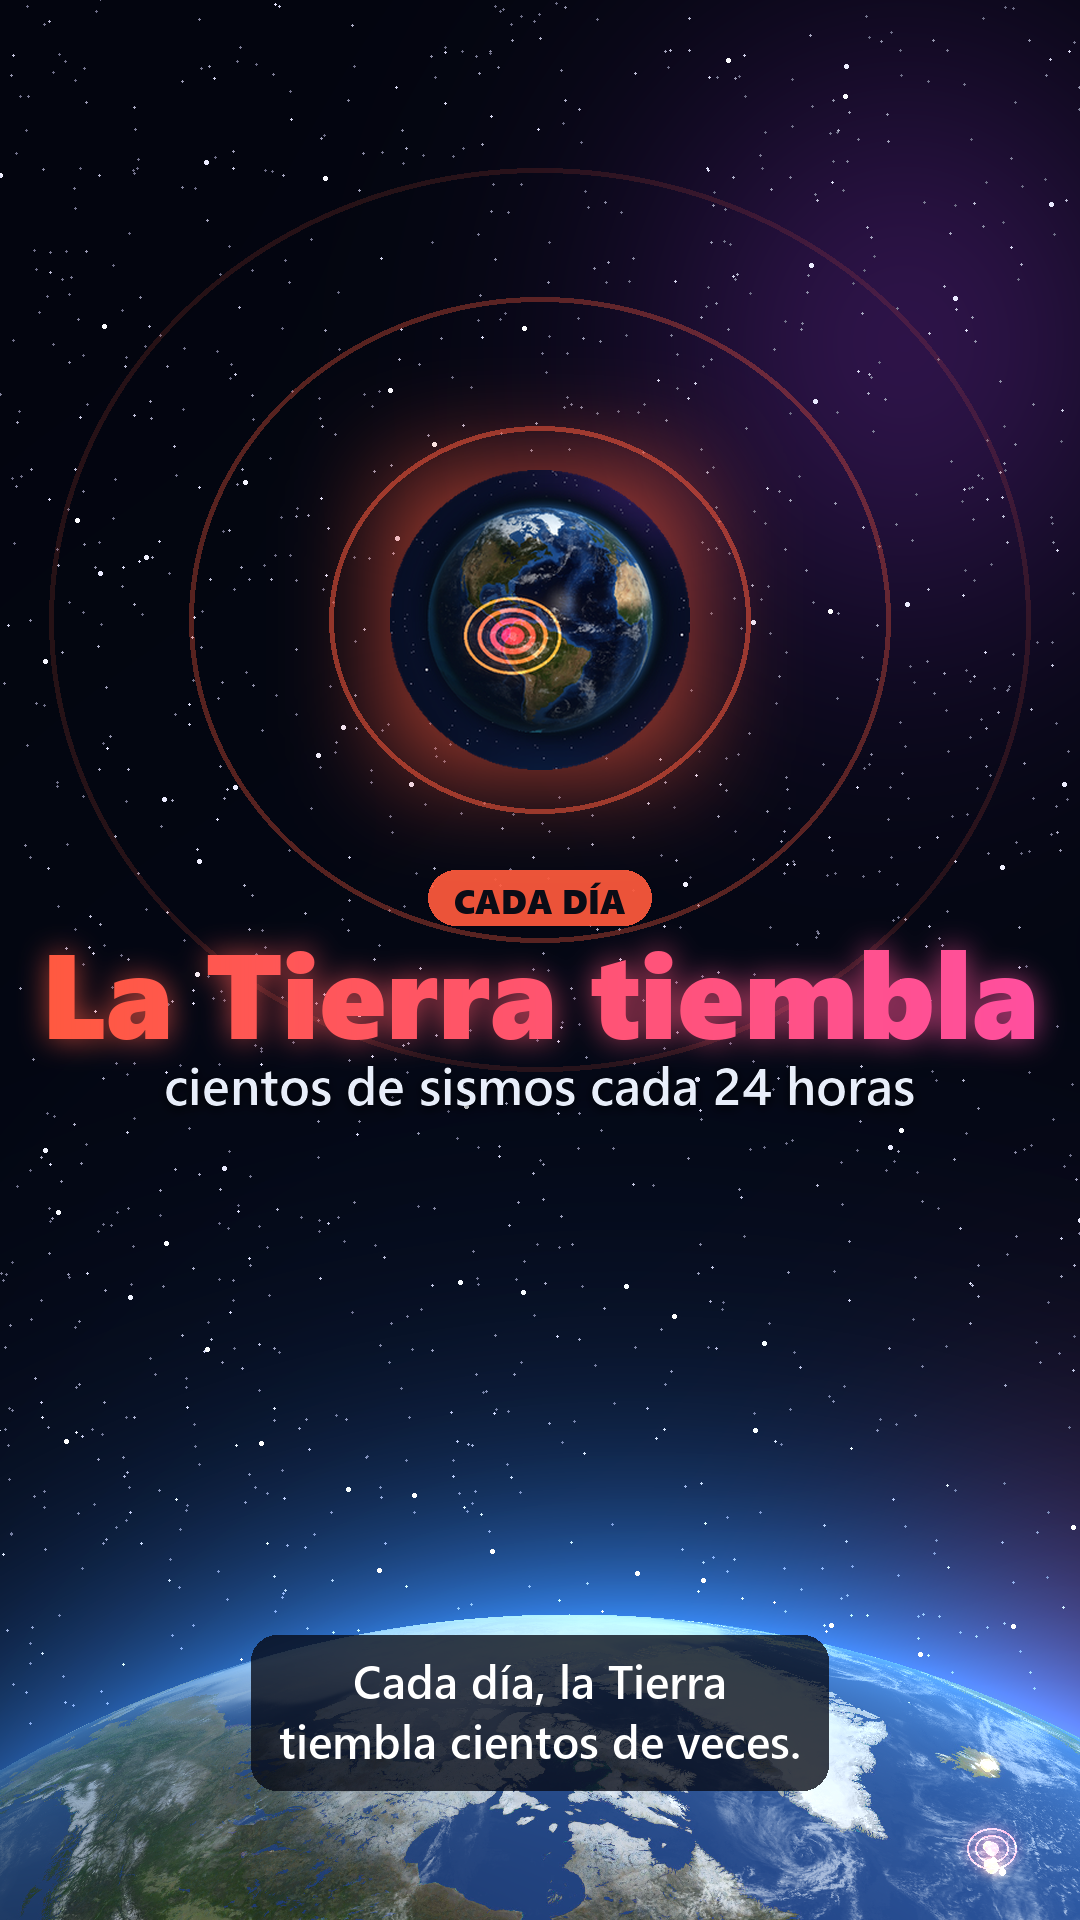
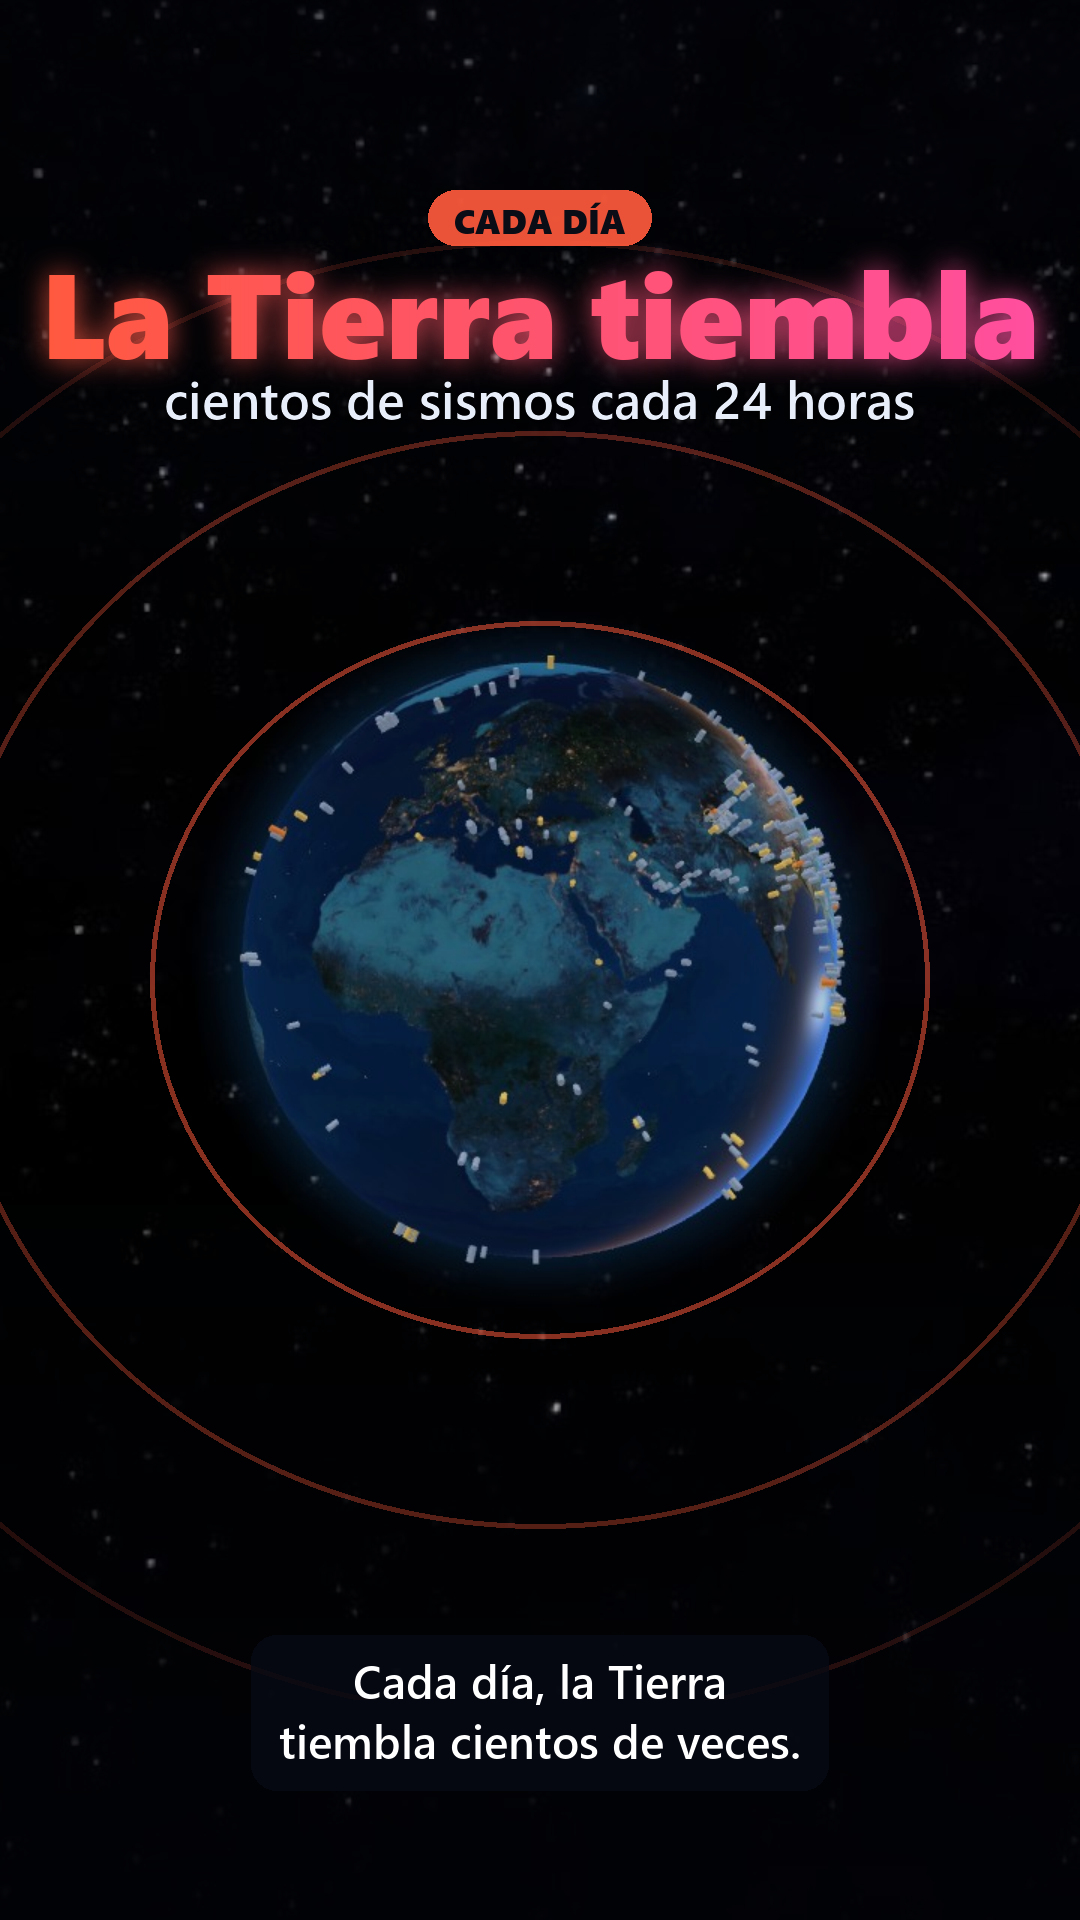
Publicidad para Facebook y video épico de Orbe Sismos
- generar_facebook.py: 2 imágenes por app (1080x1350 y 1080x1080) con el
  celular en 3D, beneficios y botón de descarga; textos en facebook-anuncios.md.
- Video de Orbe Sismos con tomas reales del globo 3D, celular inclinado,
  destellos, temblor de cámara y golpes de sonido.

diff --git a/play-store/generar_facebook.py b/play-store/generar_facebook.py
@@ -1,0 +1,220 @@
+"""Imágenes publicitarias para Facebook e Instagram: 2 por app.
+
+    python play-store/generar_facebook.py [sismos radio tv espacio clima podcasts]
+
+En play-store/<app>/publicidad/:
+  facebook-1.png   1080x1350 (4:5, la que más ocupa en el feed): frase gancho, celular en 3D y 3 beneficios
+  facebook-2.png   1080x1080 (cuadrada): dos celulares en 3D, beneficios con ✓ y botón de descarga
+Los textos para acompañar cada anuncio están en play-store/facebook-anuncios.md.
+Usa los fondos que deja play-store/videos/hacer_videos.py (cache/<app>/fondo.png) y, para Orbe Sismos,
+una toma real del globo 3D de la app (grabar_globo_sismos.js).
+"""
+import os
+import sys
+
+import numpy as np
+from PIL import Image, ImageDraw
+
+HERE = os.path.dirname(os.path.abspath(__file__))
+sys.path.insert(0, os.path.join(HERE, 'videos'))
+import hacer_videos as hv  # noqa: E402
+from guiones import APPS  # noqa: E402
+
+gg, gp = hv.gg, hv.gp
+FB, FS = gp.FONT_B, gp.FONT_S
+PINK = (255, 79, 163)
+
+ADS = {
+    'sismos': dict(
+        a=dict(h='¿Y si tiembla esta noche?', s='Recibe una alarma si hay un sismo fuerte cerca de ti', shot='capturas/telefono-1-mapa.png',
+               chips=['Alarma aunque la app esté cerrada', 'Avisa a tu familia que estás bien', 'Guías de emergencia sin internet']),
+        b=dict(h='Un sismo no avisa. ¿Estás preparado?', shots=['capturas/telefono-5-alarmas.png', 'capturas-video/video-test.png'],
+               checks=['Sismos de todo el mundo en vivo, en 3D', 'Alarma si tiembla fuerte cerca de ti', 'Test de preparación para tu familia'])),
+    'radio': dict(
+        a=dict(h='52.000 emisoras en un globo 3D', s='Gira el planeta y escucha la radio de cualquier país', shot='capturas/telefono-1-globo.png',
+               chips=['223 países en vivo', 'Alarma y temporizador para dormir', 'Toda la radio de Colombia']),
+        b=dict(h='Escucha el mundo, gratis', shots=['capturas/telefono-5-colombia.png', 'capturas/telefono-2-busqueda.png'],
+               checks=['Salsa, vallenato, rock, jazz y noticias', 'Emisoras de Colombia y Latinoamérica', 'Un planeta en 8K, de día y de noche'])),
+    'tv': dict(
+        a=dict(h='8.700 canales gratis', s='De 177 países, en tu celular y en tu televisor', shot='capturas/telefono-1-globo.png',
+               chips=['Noticias en vivo 24 horas', 'Deportes, música, cine y niños', 'Chromecast y Android TV']),
+        b=dict(h='Mira el mundo en vivo', shots=['capturas/telefono-3-deportes.png', 'capturas/telefono-6-colombia.png'],
+               checks=['Canales de 177 países', '10 categorías con colores', 'Comparte un canal por WhatsApp'])),
+    'espacio': dict(
+        a=dict(h='La Estación Espacial pasa sobre ti', s='Te avisamos 10 minutos antes para que salgas a verla', shot='capturas/telefono-3-pasos.png',
+               chips=['Más de 14.000 satélites en vivo', 'Próximos lanzamientos de cohetes', 'Astronautas en órbita ahora']),
+        b=dict(h='Mira el cielo como nunca', shots=['capturas/telefono-1-mapa.png', 'capturas/telefono-2-estacion.png'],
+               checks=['La Estación Espacial en vivo', 'Satélites del mundo en un globo 3D', 'Cuenta regresiva de cohetes'])),
+    'clima': dict(
+        a=dict(h='¿Viene lluvia? Míralo en 3D', s='Viento, lluvia y huracanes de todo el planeta', shot='capturas/telefono-1-viento.png',
+               chips=['Huracanes y tifones con su ruta', 'Alertas para tu ciudad', 'Pronóstico de 10 días']),
+        b=dict(h='El clima del mundo en tus manos', shots=['capturas/telefono-6-huracan.png', 'capturas/telefono-4-mi-clima.png'],
+               checks=['El viento del planeta en vivo', 'Lluvia de las próximas 48 horas', 'Alertas de tormentas y huracanes'])),
+    'podcasts': dict(
+        a=dict(h='Lo que el mundo está escuchando', s='Los podcasts más escuchados de 63 países, gratis', shot='capturas/telefono-1-mapa.png',
+               chips=['El top de cada país', 'Noticias, humor y crimen real', 'Android Auto y Chromecast']),
+        b=dict(h='Tu próximo podcast favorito', shots=['capturas/telefono-4-reproductor.png', 'capturas/telefono-2-explorar.png'],
+               checks=['Explora por temas y países', 'Sigue donde quedaste', 'Temporizador para dormir'])),
+}
+
+
+def background(key, w, h):
+    """Fondo épico: el globo real de la app (Sismos) o el espacio con la Tierra de la publicidad."""
+    if key == 'sismos':
+        clip = os.path.join(hv.CACHE, 'sismos', 'clips', 'llegada')
+        frames = sorted(os.listdir(clip)) if os.path.isdir(clip) else []
+        if frames:
+            im = Image.open(os.path.join(clip, frames[-12])).convert('RGB').resize((1080, 1920), Image.LANCZOS)
+            top = (1920 - h) // 2 + 120
+            im = im.crop((0, top, w, top + h)).convert('RGBA')
+            shade = Image.new('RGBA', (w, h), (2, 3, 8, 0))
+            y = np.linspace(0, 1, h)[:, None]
+            a = 215 - 120 * np.clip(y / 0.45, 0, 1) + 110 * np.clip((y - 0.7) / 0.3, 0, 1)
+            shade.putalpha(Image.fromarray(np.repeat(a, w, 1).astype(np.uint8)))
+            im.alpha_composite(shade)
+            return im
+    bg = hv.Video.__new__(hv.Video)
+    bg.key, bg.cfg = key, APPS[key]
+    im = bg.backdrop()                       # 1200x2134, la Tierra abajo
+    y0 = 2134 - h - 160
+    return im.crop((60, y0, 60 + w, y0 + h)).convert('RGBA')
+
+
+def brand(key, size=64):
+    cfg = APPS[key]
+    www = os.path.join(gg.ROOT, cfg['folder'], 'app', 'src', 'main', 'assets', 'www')
+    icon = Image.open(os.path.join(www, 'img', 'icono.png')).convert('RGBA').resize((size, size), Image.LANCZOS)
+    txt, pad = hv.plain_text(cfg['title'], gg.font(FB, int(size * 0.62)))
+    im = Image.new('RGBA', (size + 16 + txt.size[0], max(size, txt.size[1])))
+    im.alpha_composite(icon, (0, (im.size[1] - size) // 2))
+    im.alpha_composite(txt, (size + 16 - pad, (im.size[1] - txt.size[1]) // 2))
+    return im
+
+
+def phone3d(key, shot, width, ay, ax=2.0, color=None):
+    sh = Image.open(os.path.join(HERE, key, shot)).convert('RGB')
+    ph = gp.phone(sh, width).convert('RGBA')
+    glow, gpad = gp.glow_shadow(ph.size, color=color or APPS[key]['color'], blur=40, alpha=170)
+    comb = Image.new('RGBA', glow.size)
+    comb.alpha_composite(glow)
+    comb.alpha_composite(ph, (gpad, gpad))
+    big = Image.new('RGBA', (comb.size[0] + 120, comb.size[1] + 120))
+    big.alpha_composite(comb, (60, 60))
+    t = hv.tilt(big, ay, ax)
+    return t.crop(t.getbbox())
+
+
+def headline(img, text, x0, y, max_w, start, c1, c2, center=False, max_lines=3):
+    d = ImageDraw.Draw(Image.new('L', (1, 1)))
+    size = start
+    while True:
+        f = gg.font(FB, size)
+        lines = hv.wrap(text, f, max_w)
+        if len(lines) <= max_lines or size <= 40:
+            break
+        size -= 4
+    for line in lines:
+        t, pad = hv.grad_text(line, f, c1, c2, glow=0.7)
+        x = (img.size[0] - t.size[0]) // 2 if center else x0 - pad
+        img.alpha_composite(t, (x, y - pad))
+        y += t.size[1] - 2 * pad + int(size * 0.12)
+    return y
+
+
+def chip(text, color, w_max):
+    f = gg.font(FS, 34)
+    d = ImageDraw.Draw(Image.new('L', (1, 1)))
+    lines = hv.wrap(text, f, w_max - 90)
+    lh = 44
+    w = int(max(d.textlength(x, font=f) for x in lines)) + 96
+    h = lh * len(lines) + 34
+    im = Image.new('RGBA', (w, h))
+    dr = ImageDraw.Draw(im)
+    dr.rounded_rectangle((0, 0, w - 1, h - 1), radius=26, fill=(10, 14, 30, 215), outline=color + (200,), width=3)
+    cy = h // 2
+    dr.ellipse((22, cy - 15, 52, cy + 15), fill=color + (255,))
+    dr.line((30, cy, 36, cy + 7, 46, cy - 8), fill=(10, 12, 22, 255), width=5)
+    for i, x in enumerate(lines):
+        dr.text((70, 15 + i * lh), x, font=f, fill=(255, 255, 255))
+    return im
+
+
+def cta_button(text, size=44):
+    btn = hv.pill(text, gg.font(FB, size), PINK + (255,), padx=44, pady=22)
+    glow, pad = gp.glow_shadow(btn.size, color=PINK, blur=22, alpha=160)
+    im = Image.new('RGBA', glow.size)
+    im.alpha_composite(glow)
+    im.alpha_composite(btn, (pad, pad))
+    return im, pad
+
+
+def ad_a(key):
+    W, H = 1080, 1350
+    cfg, ad = APPS[key], ADS[key]['a']
+    c1 = cfg['color']
+    c2 = PINK if c1 != PINK else hv.CYAN
+    img = background(key, W, H)
+    b = brand(key)
+    img.alpha_composite(b, ((W - b.size[0]) // 2, 44))
+    y = headline(img, ad['h'], 60, 150, W - 100, 100, c1, c2, center=True, max_lines=2) + 12
+    for line in hv.wrap(ad['s'], gg.font(FS, 40), W - 140):
+        s, p = hv.plain_text(line, gg.font(FS, 40), fill=(235, 240, 252))
+        img.alpha_composite(s, ((W - s.size[0]) // 2, y + 6 - p))
+        y += s.size[1] - 2 * p + 6
+    ph = phone3d(key, ad['shot'], 420, -16)
+    top = y + 40
+    sc = min(1.0, (H - 120 - top) / ph.size[1])
+    if sc < 1:
+        ph = ph.resize((int(ph.size[0] * sc), int(ph.size[1] * sc)), Image.LANCZOS)
+    img.alpha_composite(ph, (W - ph.size[0] - 20, top))
+    cy = top + 40
+    for t in ad['chips']:
+        c = chip(t, c1, 560)
+        img.alpha_composite(c, (50, cy))
+        cy += c.size[1] + 22
+    btn, pad = cta_button('Descárgala GRATIS')
+    by = max(cy + 30, H - 250)
+    img.alpha_composite(btn, (50 - pad, by - pad))
+    s, p = hv.plain_text('en Google Play', gg.font(FS, 34), fill=(225, 232, 248))
+    img.alpha_composite(s, (50 + (btn.size[0] - 2 * pad - s.size[0]) // 2 + p, by + btn.size[1] - 2 * pad + 10 - p))
+    out = os.path.join(HERE, key, 'publicidad', 'facebook-1.png')
+    img.convert('RGB').save(out, optimize=True)
+    print('  ->', os.path.relpath(out, HERE))
+
+
+def ad_b(key):
+    W = H = 1080
+    cfg, ad = APPS[key], ADS[key]['b']
+    c1 = cfg['color']
+    c2 = PINK if c1 != PINK else hv.CYAN
+    img = background(key, W, H)
+    # dos celulares con profundidad a la derecha
+    back = phone3d(key, ad['shots'][1], 340, 24, color=c2)
+    back = hv.with_alpha(back, 0.8)
+    img.alpha_composite(back, (W - back.size[0] + 170, 250))
+    front = phone3d(key, ad['shots'][0], 390, 14)
+    img.alpha_composite(front, (W - front.size[0] + 10, 80))
+    # columna de texto a la izquierda
+    b = brand(key, 60)
+    img.alpha_composite(b, (56, 56))
+    y = headline(img, ad['h'], 60, 160, 470, 80, c1, c2, max_lines=4)
+    y += 24
+    for t in ad['checks']:
+        c = chip(t, (47, 210, 122), 520)
+        img.alpha_composite(c, (50, y))
+        y += c.size[1] + 18
+    btn, pad = cta_button('Descárgala GRATIS', 40)
+    by = max(y + 26, H - 190)
+    img.alpha_composite(btn, (50 - pad, by - pad))
+    s, p = hv.plain_text('Disponible en Google Play', gg.font(FS, 30), fill=(225, 232, 248))
+    img.alpha_composite(s, (56 - p, by + btn.size[1] - 2 * pad + 10 - p))
+    out = os.path.join(HERE, key, 'publicidad', 'facebook-2.png')
+    img.convert('RGB').save(out, optimize=True)
+    print('  ->', os.path.relpath(out, HERE))
+
+
+if __name__ == '__main__':
+    for key in sys.argv[1:] or list(ADS):
+        print(APPS[key]['title'])
+        ad_a(key)
+        ad_b(key)

diff --git a/play-store/facebook-anuncios.md b/play-store/facebook-anuncios.md
@@ -1,0 +1,99 @@
+# Anuncios para Facebook e Instagram
+
+Cada app tiene 2 imágenes en `play-store/<app>/publicidad/`:
+
+- `facebook-1.png` (1080×1350, vertical 4:5): úsala en el **feed** de Facebook e Instagram; es la que más espacio ocupa.
+- `facebook-2.png` (1080×1080, cuadrada): úsala en el **feed** y en la **columna derecha**.
+
+Para **historias y reels** usa el video de 1:30 (`play-store/videos/listos/`) o `publicidad/redes-historia.png`.
+
+En el Administrador de anuncios, crea una campaña con objetivo **"Promoción de la app"**. Elige tu app de Google Play y
+pon **Instalar ahora** como botón. Los textos de abajo ya tienen el largo correcto:
+
+- **Texto principal:** se leen los primeros 125 caracteres.
+- **Título:** 40 caracteres.
+- **Descripción:** 30 caracteres.
+
+---
+
+## Orbe Sismos
+
+**Texto principal (versión 1):**
+> ¿Y si tiembla esta noche? 🌎 Orbe Sismos te avisa con una alarma si hay un sismo fuerte cerca de ti y de tu familia, aunque tengas la app cerrada. Gratis.
+
+**Texto principal (versión 2):**
+> Un sismo no avisa. Tú sí puedes estar preparado. ✅ Botón "Estoy bien" para tu familia, SOS con sirena, guías de primeros auxilios sin internet y el test para saber qué tan preparados están.
+
+- **Título:** Alarma si tiembla cerca de ti
+- **Descripción:** Sismos en vivo en 3D · Gratis
+- **Público sugerido:** Colombia, Ecuador, Perú, Chile, México, Centroamérica · 18 a 65 años · intereses: noticias, familia, seguridad, protección civil.
+- **Importante:** no escribas que la app "predice" sismos o avisa "antes" de que ocurran: Facebook y Google lo rechazan, y no es verdad. La app avisa cuando los centros sismológicos publican el sismo.
+
+## Orbe Radio
+
+**Texto principal (versión 1):**
+> 📻 52.000 emisoras de 223 países en un globo 3D. Gira el planeta y escucha la radio de cualquier lugar del mundo, gratis.
+
+**Texto principal (versión 2):**
+> Salsa, vallenato, rock, jazz o noticias 🎶 La radio de Colombia y de todo el mundo en una sola app, con alarma para despertar y temporizador para dormir.
+
+- **Título:** Escucha el mundo, gratis
+- **Descripción:** 52.000 emisoras en vivo
+- **Público sugerido:** Latinoamérica y latinos en EE. UU. y España · 18 a 65 años · intereses: radio, música, salsa, vallenato, noticias.
+
+## Orbe TV
+
+**Texto principal (versión 1):**
+> 📺 8.700 canales gratis de 177 países. Noticias 24 horas, deportes, música, cine y niños, en tu celular y en tu televisor con Chromecast.
+
+**Texto principal (versión 2):**
+> Viaja por el mundo sin salir de casa 🌎 Toca un país en el globo 3D y mira lo que están transmitiendo allá ahora mismo.
+
+- **Título:** 8.700 canales gratis
+- **Descripción:** TV de 177 países en vivo
+- **Público sugerido:** Latinoamérica · 18 a 65 años · intereses: televisión, noticias internacionales, deportes, películas.
+
+## Orbe Espacio
+
+**Texto principal (versión 1):**
+> 🛰 La Estación Espacial pasa sobre tu ciudad y se ve a simple vista. Orbe Espacio te avisa 10 minutos antes para que salgas a verla.
+
+**Texto principal (versión 2):**
+> Más de 14.000 satélites en vivo en un globo 3D 🚀 Próximos lanzamientos con cuenta regresiva y los astronautas que están en órbita ahora mismo.
+
+- **Título:** Mira la Estación Espacial
+- **Descripción:** Te avisamos cuando pasa
+- **Público sugerido:** Latinoamérica · 16 a 55 años · intereses: astronomía, NASA, SpaceX, ciencia, tecnología.
+
+## Orbe Clima
+
+**Texto principal (versión 1):**
+> 🌀 ¿Viene lluvia? Mira el viento, la lluvia y los huracanes de todo el planeta moviéndose en 3D, con alertas para tu ciudad.
+
+**Texto principal (versión 2):**
+> El clima del mundo en tus manos 🌎 Pronóstico de 10 días, huracanes con su ruta y alertas de tormentas, lluvia fuerte y calor extremo.
+
+- **Título:** El clima del planeta en 3D
+- **Descripción:** Alertas para tu ciudad
+- **Público sugerido:** Caribe, Centroamérica, México, Colombia · 18 a 65 años · intereses: clima, pronóstico, huracanes, agricultura, viajes.
+
+## Orbe Podcasts
+
+**Texto principal (versión 1):**
+> 🎧 Descubre lo que el mundo está escuchando: los podcasts más escuchados de 63 países en un globo 3D, gratis.
+
+**Texto principal (versión 2):**
+> Tu próximo podcast favorito te está esperando 🌎 Noticias, humor, crimen real e historias, con temporizador para dormir y Android Auto.
+
+- **Título:** Los podcasts del mundo
+- **Descripción:** Top de 63 países, gratis
+- **Público sugerido:** Latinoamérica y España · 18 a 45 años · intereses: podcasts, Spotify, true crime, historia, emprendimiento.
+
+---
+
+## Consejos para que rindan más
+
+1. **Prueba las 2 imágenes** de cada app en el mismo conjunto de anuncios: Facebook le da más presupuesto a la que mejor funcione.
+2. Empieza con **5 a 10 dólares diarios por app** durante 5 a 7 días, sin tocar nada, para que Facebook aprenda.
+3. Deja que Facebook elija las ubicaciones (**Advantage+**) y sube también el video para historias y reels.
+4. Para Orbe Sismos, el mejor momento para anunciar es **justo después de un sismo fuerte en tu país**: la gente busca la app.
